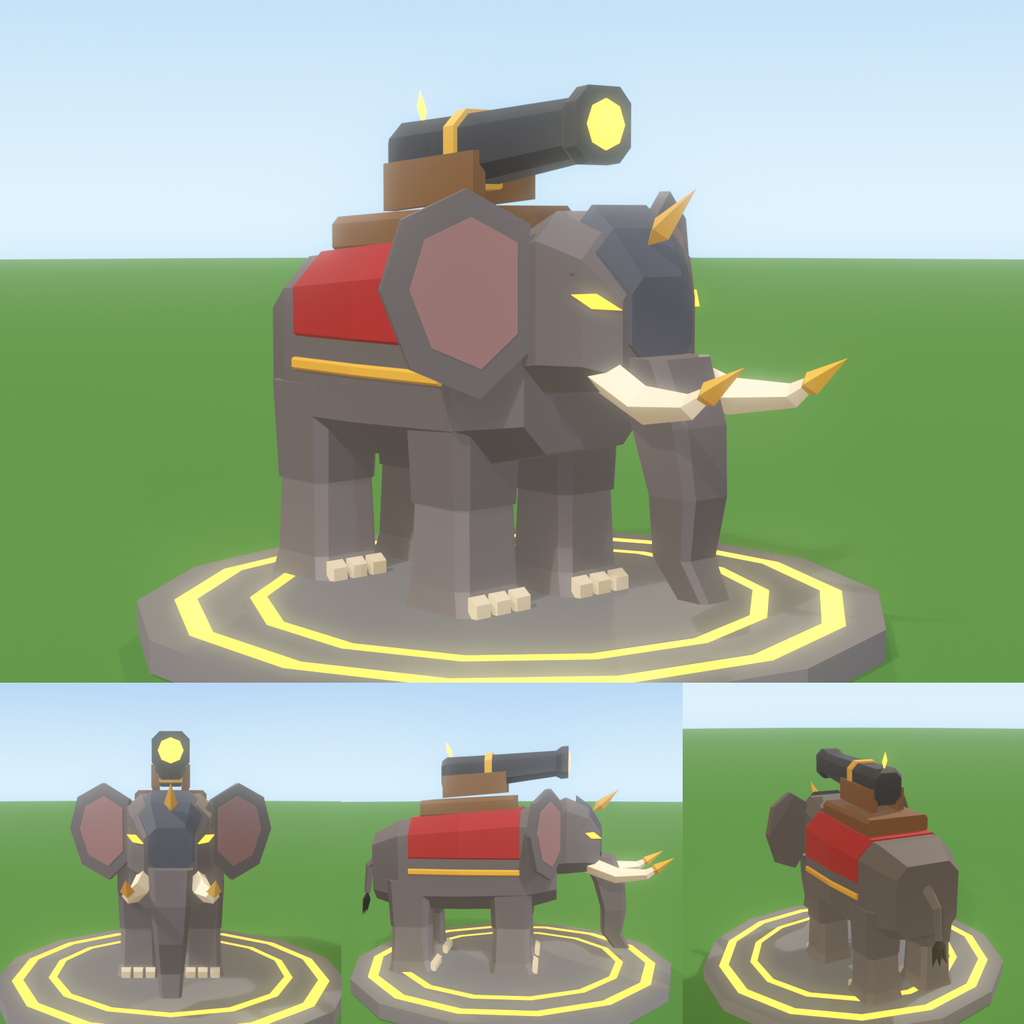
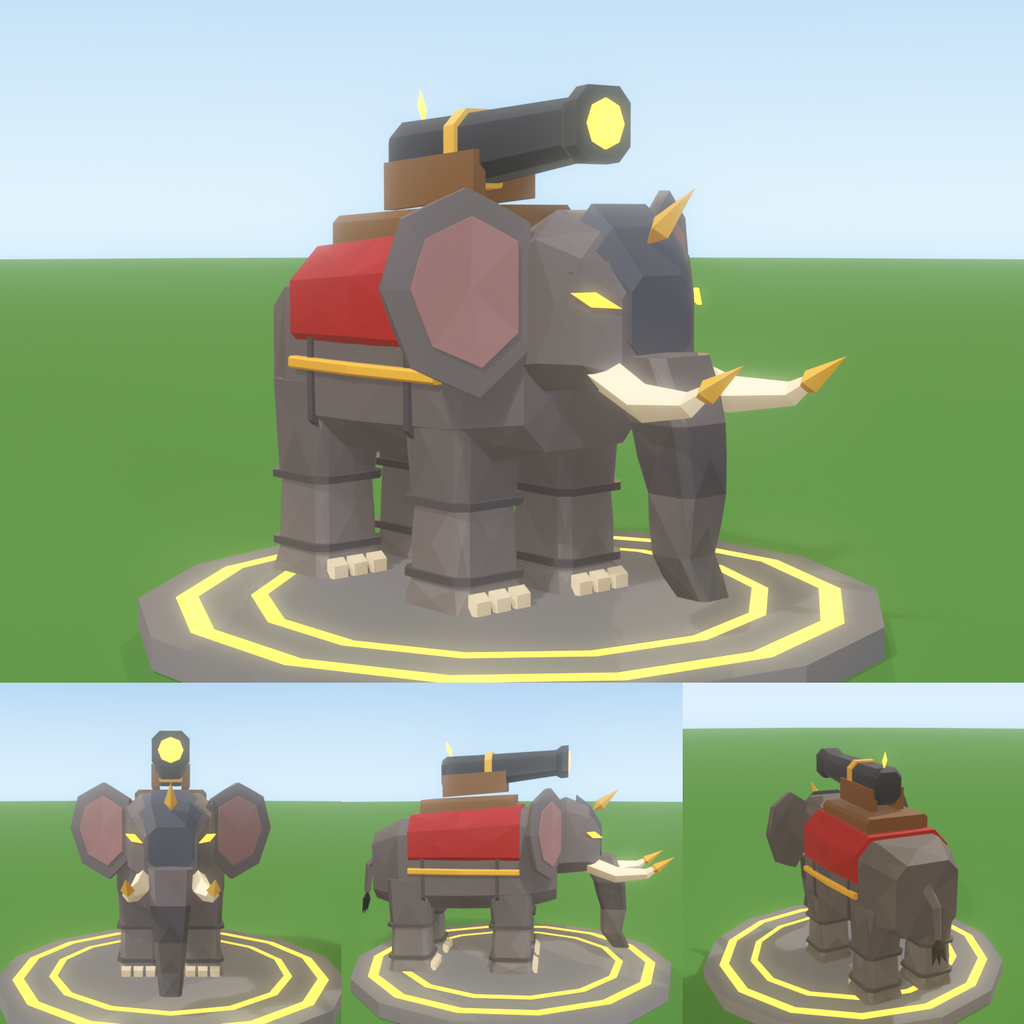
STATION-035: a faceted hide, skin folds and a ringed trunk on the elephant concepts

diff --git a/tools/blender/stations/assets/elephants.py b/tools/blender/stations/assets/elephants.py
@@ -1,7 +1,8 @@
 """The elephants (decision 0051), in the faceted low-poly style of the lions (decision 0050): the
 Elephant (the Titan), the Frost Mammoth and the War Elephant. A boxy body on four pillars of legs
-with pale toenails, a tall head with flared plate ears, a trunk of tapering blocks and shard tusks.
-Every face has one flat colour, as on the lions; keep faces big and flat.
+with pale toenails, a tall head with flared plate ears, a ringed trunk of tapering blocks and curved
+tusks. Every face has one flat colour, as on the lions; the hide's big faces are broken into facets
+(`rough`), with folds of skin at the shoulders, hips, knees and ankles, so they do not look plain.
 
 Jointed like every creature: body, head (with the trunk, ears and tusks), four legs, tail, and Neon
 `_glow` pieces. Facing Blender -Y; left is +X.
@@ -12,6 +13,7 @@ import math
 import os
 import random
 
+import bmesh
 import kit as k
 from mathutils import Vector
 
@@ -30,6 +32,20 @@ HIND = 2.35  # how far behind the front legs the hind legs stand
 EAR = [(0.0, 0.75), (0.75, 1.15), (1.5, 0.8), (1.75, 0.0), (1.4, -0.9), (0.6, -1.25), (0.0, -0.7)]  # (out, up)
 
 
+def rough(ob, tones, rng, bulge=0.04):
+    """A hide of facets: every face is broken into triangles round a slightly raised middle and painted
+    again, each triangle its own tone, darker towards the ground. The big flat faces looked plain."""
+    bm = bmesh.new()
+    bm.from_mesh(ob.data)
+    middles = bmesh.ops.poke(bm, faces=bm.faces[:])["verts"]
+    bm.normal_update()
+    for v in middles:
+        v.co += v.normal * bulge * rng.uniform(0.4, 1.0)
+    bm.to_mesh(ob.data)
+    bm.free()
+    return L.colour(ob, tones, rng, 0.26, bias=lambda c: -0.4 * max(0.0, 1 - c.z / 3.0))
+
+
 def elephant_model(p, seed):
     """The elephant from a palette `p` (see the three makers below). Returns (groups, joints)."""
     rng = random.Random(seed)
@@ -41,43 +57,61 @@ def elephant_model(p, seed):
 
     # the torso: a deep barrel, highest over the shoulders (a mammoth has a hump there)
     hump = p.get("hump", 0.0)
-    torso = loft("torso", [yring(*r) for r in ((-1.75, 3.05, 1.0, 1.0, 1.05, 0.35), (-0.9, 3.1, 1.4, 1.45 + hump, 1.3, 0.45), (0.9, 3.05, 1.45, 1.35 + hump * 0.4, 1.3, 0.45), (2.6, 2.95, 1.35, 1.3, 1.2, 0.42), (3.45, 2.85, 0.95, 1.0, 0.9, 0.32))], body, rng)
+    barrel = ((-1.75, 3.05, 1.0, 1.0, 1.05, 0.35), (-0.9, 3.1, 1.4, 1.45 + hump, 1.3, 0.45), (0.9, 3.05, 1.45, 1.35 + hump * 0.4, 1.3, 0.45), (2.6, 2.95, 1.35, 1.3, 1.2, 0.42), (3.45, 2.85, 0.95, 1.0, 0.9, 0.32))
+
+    def girth(y):
+        """The torso's section at depth y, between its rings: (zc, half width, up, down, cut)."""
+        for a, b in zip(barrel, barrel[1:]):
+            if a[0] <= y <= b[0]:
+                u = (y - a[0]) / (b[0] - a[0])
+                return tuple(a[i] + (b[i] - a[i]) * u for i in range(1, 6))
+        raise ValueError(f"no torso at y = {y}")
+
+    torso = rough(loft("torso", [yring(*r) for r in barrel], body, rng), body, rng)
     groups["body"].append(torso)
+    for y in (-0.15, 1.9):  # a fold of skin behind the shoulders and before the hips
+        zc, w, up, down, c = girth(y)
+        groups["body"].append(loft("fold", [yring(y + dy, zc, w + 0.06, up + 0.06, down + 0.06, c) for dy in (-0.05, 0.05)], T("brow"), rng))
 
     # legs: pillars, the lower half lighter, a flared foot with three pale toenails
     for s in (1, -1):
         for front in (True, False):
             x, y = s * 0.85, (-0.5 if front else HIND)
             parts = [
-                loft("leg", [zring(x, y, 2.6, 0.55, 0.6, 0.15), zring(x, y, 1.3, 0.5, 0.54, 0.14)], body, rng),
-                loft("shank", [zring(x, y, 1.35, 0.47, 0.5, 0.13), zring(x, y, 0.32, 0.5, 0.54, 0.13), zring(x, y - 0.04, 0.0, 0.58, 0.64, 0.14)], fore, rng),
+                rough(loft("leg", [zring(x, y, 2.6, 0.55, 0.6, 0.15), zring(x, y, 1.3, 0.5, 0.54, 0.14)], body, rng), body, rng),
+                rough(loft("shank", [zring(x, y, 1.35, 0.47, 0.5, 0.13), zring(x, y, 0.32, 0.5, 0.54, 0.13), zring(x, y - 0.04, 0.0, 0.58, 0.64, 0.14)], fore, rng), fore, rng),
             ]
+            for z in (1.32, 0.42):  # creases at the knee and the ankle
+                parts.append(loft("crease", [zring(x, y, z + dz, 0.57, 0.61, 0.15) for dz in (0.05, -0.05)], T("brow"), rng))
             for dx in (-0.32, 0.0, 0.32):
                 parts.append(loft("nail", [quad(y - 0.6, 0.15, 0.13, 0.13, 0.15, x + dx), quad(y - 0.74, 0.12, 0.11, 0.08, 0.12, x + dx)], pale, rng))
             groups[("leg_f" if front else "leg_b") + ("l" if s > 0 else "r")] = parts
 
     # the head: a domed skull narrowing to the face, the trunk hanging from it in four bends
-    skull = loft("skull", [yring(*r) for r in ((-2.95, 3.35, 0.6, 0.7, 0.55, 0.2), (-2.6, 3.65, 0.9, 0.95, 0.85, 0.3), (-2.0, 3.75, 1.05, 1.1, 1.0, 0.34), (-1.3, 3.6, 0.95, 0.95, 0.9, 0.3))], body, rng)
+    skull = rough(loft("skull", [yring(*r) for r in ((-2.95, 3.35, 0.6, 0.7, 0.55, 0.2), (-2.6, 3.65, 0.9, 0.95, 0.85, 0.3), (-2.0, 3.75, 1.05, 1.1, 1.0, 0.34), (-1.3, 3.6, 0.95, 0.95, 0.9, 0.3))], body, rng), body, rng, 0.03)
     head = groups["head"]
     head.append(skull)
-    head.append(loft("trunk", [zring(0, -2.9, 3.2, 0.5, 0.5, 0.14), zring(0, -3.25, 2.45, 0.44, 0.44, 0.12), zring(0, -3.4, 1.65, 0.36, 0.36, 0.1), zring(0, -3.35, 0.95, 0.29, 0.29, 0.08), zring(0, -3.65, 0.5, 0.24, 0.24, 0.07)], body, rng))
+    bends = [zring(0, -2.9, 3.2, 0.5, 0.5, 0.14), zring(0, -3.25, 2.45, 0.44, 0.44, 0.12), zring(0, -3.4, 1.65, 0.36, 0.36, 0.1), zring(0, -3.35, 0.95, 0.29, 0.29, 0.08), zring(0, -3.65, 0.5, 0.24, 0.24, 0.07)]
+    for i in range(4):  # ringed: every other segment a shade darker
+        ring = body if i % 2 == 0 else T("brow")
+        head.append(rough(loft("trunk", bends[i : i + 2], ring, rng), ring, rng, 0.03))
     size = p.get("ear", 1.0)
     for s in (1, -1):
         # ears: flat plates flared forward and out, a lighter inside
         fx, fy, fz = k._frame(Vector((s * 0.5, -1, 0)), (0, 0, 1))
         frame, at = (fx * s, fy, fz), Vector((s * 0.95, -1.75, 3.95))
-        head.append(plate("ear", at, frame, [(u * size, v * size) for u, v in EAR], 0.14, body, rng))
-        head.append(plate("ear", at + fz * 0.14, frame, [((0.16 + u * 0.72) * size, v * 0.72 * size) for u, v in EAR], 0.03, T("ear_in"), rng))
+        head.append(rough(plate("ear", at, frame, [(u * size, v * size) for u, v in EAR], 0.14, body, rng), body, rng, 0.03))
+        head.append(rough(plate("ear", at + fz * 0.17, frame, [((0.16 + u * 0.72) * size, v * 0.72 * size) for u, v in EAR], 0.03, T("ear_in"), rng), T("ear_in"), rng, 0.01))
         # a heavy brow over a slit of an eye
         head.append(shard((s * 0.2, -2.95, 3.95), (s * 0.98, -2.45, 4.15), 0.36, 0.28, T("brow"), rng, face=(0, -1, 0.5), name="brow"))
         at, n = k.land(skull, (s * 0.6, -2.6, 3.8), (s * 0.75, -0.65, 0.1))
         ex, ey, ez = k._frame(n)
         slit = [(-0.26, -0.08), (0.03, 0.1), (0.31, 0.09), (0.08, -0.065)]
         if p.get("glow_eyes"):
-            groups["head_glow"].append(plate("eye", at, (ex * s, ey, ez), slit, 0.05, None, rng, m=glow))
+            groups["head_glow"].append(plate("eye", at, (ex * s, ey, ez), slit, 0.05, None, rng, lift=0.035, m=glow))
         else:
-            head.append(plate("eye", at, (ex * s, ey, ez), slit, 0.04, tone(p["iris"], L.WARM), rng))
-            head.append(plate("pupil", at, (ex * s, ey, ez), [(0.0, -0.06), (0.065, 0.0), (0.06, 0.09), (-0.005, 0.03)], 0.02, tone(L.INK), rng, lift=0.042))
+            head.append(plate("eye", at, (ex * s, ey, ez), slit, 0.04, tone(p["iris"], L.WARM), rng, lift=0.035))
+            head.append(plate("pupil", at, (ex * s, ey, ez), [(0.0, -0.06), (0.065, 0.0), (0.06, 0.09), (-0.005, 0.03)], 0.02, tone(L.INK), rng, lift=0.077))
         # a tusk: a curved four-sided horn through the palette's points, tapering to its tip
         path, radii = [Vector((s * x, y, z)) for x, y, z, _ in p["tusks"]], [r for _, _, _, r in p["tusks"]]
         if p.get("tusk_glow"):
@@ -95,7 +129,7 @@ def elephant_model(p, seed):
 
     extra = p.get("extra")
     if extra:
-        extra(groups, torso, rng, glow)
+        extra(groups, torso, rng, glow, girth)
     joints = {"head": (0, -1.3, 3.5), "leg_fl": (0.85, -0.5, 2.3), "leg_fr": (-0.85, -0.5, 2.3), "leg_bl": (0.85, HIND, 2.3), "leg_br": (-0.85, HIND, 2.3), "tail": tuple(t0)}
     return {name: parts for name, parts in groups.items() if parts}, joints  # no empty pieces
 
@@ -109,7 +143,7 @@ def elephant():
     )
 
 
-def frost_extra(groups, torso, rng, glow):
+def frost_extra(groups, torso, rng, glow, girth):
     """A shaggy skirt of pale fur down both flanks, a mop on the crown, and ice down the back."""
     fur, tips = tone((122, 152, 198), FROSTY), tone((224, 236, 250), FROSTY)
     for s in (1, -1):
@@ -139,15 +173,15 @@ def frost_mammoth():
     )
 
 
-def war_extra(groups, torso, rng, glow):
+def war_extra(groups, torso, rng, glow, girth):
     """War gear: a red blanket with a gold hem, a wooden deck carrying a cannon over the head, a steel
     plate and a spike on the brow, gold caps on the tusks. The muzzle and the fuse glow."""
     steel, gold, red = tone((78, 84, 98), GREY), tone((226, 176, 60)), tone((172, 40, 40))
     wood, iron = tone((126, 88, 52)), tone((50, 52, 60), GREY)
     body, head = groups["body"], groups["head"]
-    drape = ((-0.75, 1.445, 0.83), (0.9, 1.49, 0.69), (2.3, 1.41, 0.57))  # (y, half width, top above 3.75): just proud of the torso
-    body.append(loft("blanket", [yring(y, 3.75, w, up, 0.95, 0.46) for y, w, up in drape], red, rng))
-    body.append(loft("hem", [yring(y, 2.86, w + 0.03, 0.08, 0.08, 0.03) for y, w, _ in drape], gold, rng))
+    drape = [(y, *girth(y)) for y in (-0.75, 0.9, 2.3)]  # cut to the torso, a hand proud of its facets
+    body.append(rough(loft("blanket", [yring(y, 3.75, w + 0.1, zc + up + 0.1 - 3.75, 0.95, c + 0.02) for y, zc, w, up, _, c in drape], red, rng), red, rng, 0.02))
+    body.append(loft("hem", [yring(y, 2.86, w + 0.14, 0.08, 0.08, 0.03) for y, _, w, _, _, _ in drape], gold, rng))
     body.append(loft("deck", [yring(-0.55, 4.72, 0.95, 0.2, 0.3, 0.1), yring(2.05, 4.58, 0.95, 0.2, 0.3, 0.1)], wood, rng))
     for x in (-0.42, 0.42):  # the carriage's cheeks
         body.append(loft("cheek", [quad(1.5, 5.15, 0.1, 0.32, 0.3, x), quad(-0.3, 5.3, 0.1, 0.3, 0.3, x)], wood, rng))

diff --git a/tools/blender/stations/assets/lions.py b/tools/blender/stations/assets/lions.py
@@ -63,14 +63,15 @@ def material(emit=0.0):
     return m
 
 
-def colour(ob, tones, rng, chance=0.2):
-    """One colour for each face of `ob`. tones: a (shadow, base, light) triple, or one per face."""
+def colour(ob, tones, rng, chance=0.2, bias=None):
+    """One colour for each face of `ob`. tones: a (shadow, base, light) triple, or one per face.
+    bias(centre): added to a face's light from where it is (the elephants darken towards the ground)."""
     me = ob.data
     attr = me.color_attributes.get(ATTR) or me.color_attributes.new(ATTR, "FLOAT_COLOR", "CORNER")
     each = not isinstance(tones[0][0], (int, float))
     for poly in me.polygons:
         shadow, base, light = tones[poly.index] if each else tones
-        t = max(-1.0, min(1.0, poly.normal.dot(LIGHT) * 0.8 + rng.uniform(-chance, chance)))
+        t = max(-1.0, min(1.0, poly.normal.dot(LIGHT) * 0.8 + rng.uniform(-chance, chance) + (bias(poly.center) if bias else 0)))
         rgb = k.mix(base, light, t) if t > 0 else k.mix(base, shadow, -t)
         c = k.lin(rgb)
         for i in poly.loop_indices:

diff --git a/docs/decisions/0051-animal-stations-faceted-elephants.md b/docs/decisions/0051-animal-stations-faceted-elephants.md
@@ -11,7 +11,10 @@ war elephant with a cannon on it.
 - The Elephant (the Titan), the Frost Mammoth and a new War Elephant are built in
   `tools/blender/stations/assets/elephants.py` with the lions' faceted helpers: a boxy body on four
   pillars of legs with pale toenails, a tall head with flared plate ears, a trunk of tapering blocks,
-  curved four-sided tusks, a short tail. About 900 to 1,250 triangles each.
+  curved four-sided tusks, a short tail. About 1,700 to 2,100 triangles each.
+- The hide is textured with facets, not paint: every big face is broken into triangles round a slightly
+  raised middle, each its own tone and darker towards the ground, with folds of skin at the shoulders
+  and hips, creases at the knees and ankles, and a ringed trunk (SHANNON asked for more texture).
 - Elephant: blue-grey, amber slit eyes, pale tusks.
 - Frost Mammoth (mythic, as now): icy blue with a hump, small ears, a shaggy fringe down both flanks,
   huge curved tusks of glowing ice, ice spikes down the back, glowing eyes.
